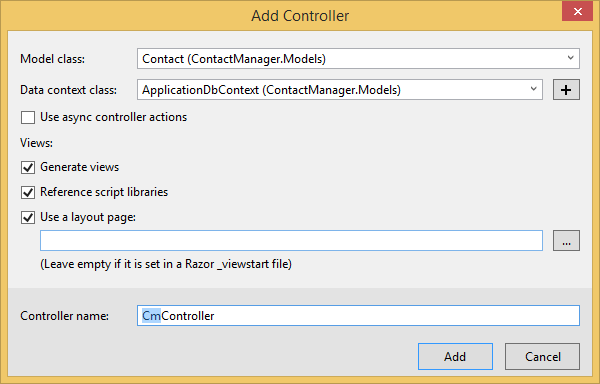
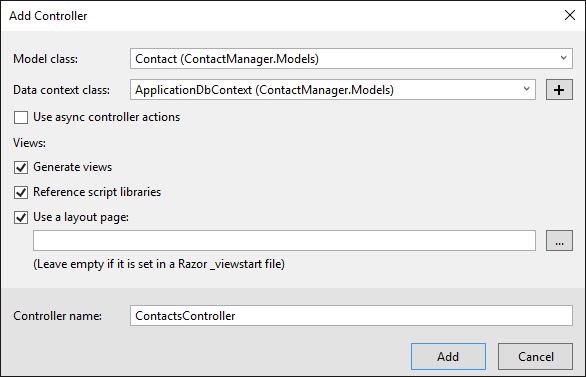
2.8 changes

Changed region(s): [[0.0, 0.0, 1.0, 1.0]]

diff --git a/articles/app-service-web/web-sites-dotnet-deploy-aspnet-mvc-app-membership-oauth-sql-database.md b/articles/app-service-web/web-sites-dotnet-deploy-aspnet-mvc-app-membership-oauth-sql-database.md
@@ -13,8 +13,8 @@
 	ms.workload="web" 
 	ms.tgt_pltfrm="na" 
 	ms.devlang="dotnet" 
-	ms.topic="get-started-article" 
-	ms.date="12/07/2015" 
+	ms.topic="article" 
+	ms.date="03/21/2016" 
 	ms.author="riande"/> 
 
 # Create an ASP.NET MVC app with auth and SQL DB and deploy to Azure App Service
@@ -53,9 +53,7 @@ To set up your development environment, you must install [Visual Studio 2013 Upd
 
 	![New Project in File menu](./media/web-sites-dotnet-deploy-aspnet-mvc-app-membership-oauth-sql-database/gs13newproj.png)
 
-1. In the **New Project** dialog box, expand **C#** and select **Web** under **Installed Templates**, and then select **ASP.NET Web Application**.
-
-1. Name the application **ContactManager**, and then click **OK**.
+1. In the **New Project** dialog box, expand **C#** and select **Web** under **Installed Templates**, and then select **ASP.NET Web Application**. Name the application **ContactManager**, and then click **OK**.
 
 	![New Project dialog box](./media/web-sites-dotnet-deploy-aspnet-mvc-app-membership-oauth-sql-database/GS13newprojdb.png)
  
@@ -67,29 +65,35 @@ To set up your development environment, you must install [Visual Studio 2013 Upd
 
 1. Click **OK**.
 
-3. When the **Configure Microsoft Azure Web App Settings** dialog appears, make sure that you are signed in to Azure:  sign in if you have not already done so, or reenter your credentials if your login is expired.
+1. The **Configure Microsoft Azure Web App Settings** dialog appears. You may need to sign in if you have not already done so, or reenter your credentials if your login is expired.
 
-	![Reenter credentials](./media/web-sites-dotnet-deploy-aspnet-mvc-app-membership-oauth-sql-database/reentercredentials.png)
-
-2. If you want to specify a name for your web app, change the value in the **Web App name** box.
+1. Optional - change the value in the **Web App name** box (see image below).
 
 	The URL of the web app will be {name}.azurewebsites.net, so the name has to be unique in the azurewebsites.net domain. The configuration wizard suggests a unique name by appending a number to the project name "ContactManager", and that's fine for this tutorial.
 
-5. In the **App Service plan** drop-down select **Create new App Service plan** and enter a name, such as "StandardWeb" as shown in the illustration.
-
-	If you prefer, you can select an App Service plan that you already have. For information about App Service plans, see [Azure App Service plans in-depth overview](../app-service/azure-web-sites-web-hosting-plans-in-depth-overview.md). 
-
-5. In the **Resource group** drop-down select **Create new resource group** and enter a name, such as "ExampleMVC", as shown in the illustration.
+5. In the **Resource group** drop-down select an existing group or **Create new resource group**(see image below). 
 
 	If you prefer, you can select a resource group that you already have. But if you create a new resource group and only use it for this tutorial, it will be easy to delete all Azure resources you created for the tutorial when you're done with them. For information about resource groups, see [Azure Resource Manager overview](../resource-group-overview.md). 
 
-7. Select a region near you. 
+5. In the **App Service plan** drop-down select select an existing plan or **Create new App Service plan**(see image below).
 
-	Don't click **OK** yet. In the next step, you'll configure the database resource. The dialog box now looks like the following illustration. 
+	If you prefer, you can select an App Service plan that you already have. For information about App Service plans, see [Azure App Service plans in-depth overview](../app-service/azure-web-sites-web-hosting-plans-in-depth-overview.md). 
 
-	![New plan and resource group](./media/web-sites-dotnet-deploy-aspnet-mvc-app-membership-oauth-sql-database/newplanandgroup.png)
- 
-2. Select **Create new server**, enter a server name, user name, and password. 
+1. Tap **Explore additional Azure services** to add a SQL database.
+
+	![Add new services](./media/web-sites-dotnet-deploy-aspnet-mvc-app-membership-oauth-sql-database/n2.png)
+
+1. Tap the **+** icon to add a SQL database.
+
+	![New SQL DB](./media/web-sites-dotnet-deploy-aspnet-mvc-app-membership-oauth-sql-database/nsql.png)
+
+1. Tap **New** on the  **Configure SQL Database** dialog:
+
+	![SQL admin name and pw](./media/web-sites-dotnet-deploy-aspnet-mvc-app-membership-oauth-sql-database/nc.png)
+
+1. Enter a name for the administrator and a strong password.
+
+	![New SQL DB](./media/web-sites-dotnet-deploy-aspnet-mvc-app-membership-oauth-sql-database/np.png)
 
 	The server name must be unique. It can contain lower-case letters, numeric digits, and hyphens. It cannot contain a trailing hyphen. The user name and password are new credentials you're creating for the new server. 
 
@@ -99,7 +103,7 @@ To set up your development environment, you must install [Visual Studio 2013 Upd
 
 	![Use new database](./media/web-sites-dotnet-deploy-aspnet-mvc-app-membership-oauth-sql-database/newdb.png)
 
-4. Click **OK**.
+4. Tap **Create**.
 
 	Visual Studio creates the ContactManager web project, creates the resource group and App Service plan that you specified, and creates a web app in Azure App Service with the name you specified.
 
@@ -109,54 +113,13 @@ To set up your development environment, you must install [Visual Studio 2013 Upd
 
 	![_Layout.cshtml in Solution Explorer][newapp004]
 
-1. Replace the contents of the *Layout.cshtml* file with the following code.
+1. Replace the ActionLink in the *Layout.cshtml* file with the following code.
 
-		<!DOCTYPE html>
-		<html>
-		<head>
-		    <meta charset="utf-8" />
-		    <meta name="viewport" content="width=device-width, initial-scale=1.0">
-		    <title>@ViewBag.Title - Contact Manager</title>
-		    @Styles.Render("~/Content/css")
-		    @Scripts.Render("~/bundles/modernizr")
-		
-		</head>
-		<body>
-		    <div class="navbar navbar-inverse navbar-fixed-top">
-		        <div class="container">
-		            <div class="navbar-header">
-		                <button type="button" class="navbar-toggle" data-toggle="collapse" data-target=".navbar-collapse">
-		                    <span class="icon-bar"></span>
-		                    <span class="icon-bar"></span>
-		                    <span class="icon-bar"></span>
-		                </button>
-		                @Html.ActionLink("CM Demo", "Index", "Cm", new { area = "" }, new { @class = "navbar-brand" })
-		            </div>
-		            <div class="navbar-collapse collapse">
-		                <ul class="nav navbar-nav">
-		                    <li>@Html.ActionLink("Home", "Index", "Home")</li>
-		                    <li>@Html.ActionLink("About", "About", "Home")</li>
-		                    <li>@Html.ActionLink("Contact", "Contact", "Home")</li>
-		                </ul>
-		                @Html.Partial("_LoginPartial")
-		            </div>
-		        </div>
-		    </div>
-		    <div class="container body-content">
-		        @RenderBody()
-		        <hr />
-		        <footer>
-		            <p>&copy; @DateTime.Now.Year - Contact Manager</p>
-		        </footer>
-		    </div>
-		
-		    @Scripts.Render("~/bundles/jquery")
-		    @Scripts.Render("~/bundles/bootstrap")
-		    @RenderSection("scripts", required: false)
-		</body>
-		</html>
 
-	This code changes the application name in the header and the footer from "My ASP.NET Application" and "Application name" to "Contact Manager" and "CM Demo". 
+	@Html.ActionLink("CM Demo", "Index", "Contacts", new { area = "" }, new { @class = "navbar-brand" })
+		           
+
+	Make sure you change the third parameter from "Home" to "Contacts". The markup above will create a "Contacts" link on each page to the Index method of the Contacts controller. Change the application name in the header and the footer from "My ASP.NET Application" and "Application name" to "Contact Manager" and "CM Demo". 
  
 ### Run the application locally
 
@@ -282,7 +245,6 @@ The ASP.NET MVC scaffolding feature can automatically generate code that perform
 
 1. In the **Data context class**, select **ApplicationDbContext (ContactManager.Models)**. The **ApplicationDbContext** will be used for both the membership DB and our contact data.
 
-1. In the **Controller name** text entry box, enter "CmController" for the controller name. 
 
 	![New data ctx dlg](./media/web-sites-dotnet-deploy-aspnet-mvc-app-membership-oauth-sql-database/ss5.PNG)
 
@@ -372,7 +334,7 @@ The next task is to enable the [Code First Migrations](http://msdn.microsoft.com
                 );
         }
 
-	This code initializes (seeds) the database with contact information. For more information on seeding the database, see [Seeding and Debugging Entity Framework (EF) DBs](http://blogs.msdn.com/b/rickandy/archive/2013/02/12/seeding-and-debugging-entity-framework-ef-dbs.aspx).
+	This code initializes (seeds) the database with contact information. For more information on seeding the database, see [Seeding and Debugging Entity Framework (EF) DBs](http://blogs.msdn.com/b/rickandy/archive/2013/02/12/seeding-and-debugging-entity-framework-ef-dbs.aspx). Build the project to verify there are no compile errors.
 
 6. In the **Package Manager Console** enter the command:
 
@@ -589,6 +551,7 @@ In this section you apply the [Authorize](http://msdn.microsoft.com/library/syst
 1. Click an edit link on the page, you will be redirected to the login page (because a new local user is not added to the *canEdit* role).
 
 1. Log in as *user1@contoso.com* with password of "P_assw0rd1" (the "0" in "word" is a zero). You are redirected to the edit page you previously selected. 
+2. 
 
 	If you can't log in with that account and password, try copying the password from the source code and pasting it. If you still can't log in, check the **UserName** column of the **AspNetUsers** table to verify *user1@contoso.com* was added. 
 
@@ -604,13 +567,12 @@ In this section you apply the [Authorize](http://msdn.microsoft.com/library/syst
 
 1. Click the **Settings** tab on the left side of the **Publish Web** dialog box. 
 
-2. Click the **v** icon to select the **Remote connection string** for **ApplicationDbContext** and select the database that you created when you created the project.
+2. Under **ApplicationDbContext**  select the database that you created when you created the project.
    
-	![settings](./media/web-sites-dotnet-deploy-aspnet-mvc-app-membership-oauth-sql-database/rrc2.png)
 
 1. Under **ContactManagerContext**, select **Execute Code First Migrations**.
 
-	![settings](./media/web-sites-dotnet-deploy-aspnet-mvc-app-membership-oauth-sql-database/rrc3.png)
+	![settings](./media/web-sites-dotnet-deploy-aspnet-mvc-app-membership-oauth-sql-database/rrc2.png)
 
 1. Click **Publish**.
 
